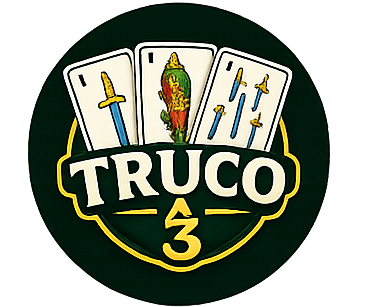
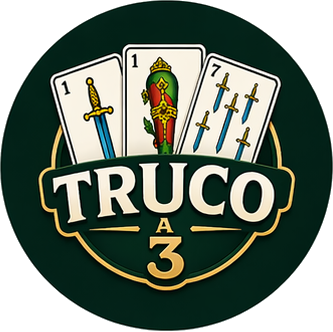
feat: add PWA support with service worker and manifest configuration

diff --git a/src/app/app.config.ts b/src/app/app.config.ts
@@ -1,5 +1,6 @@
 import type { ApplicationConfig } from '@angular/core';
-import { provideBrowserGlobalErrorListeners } from '@angular/core';
+import { isDevMode, provideBrowserGlobalErrorListeners } from '@angular/core';
+import { provideServiceWorker } from '@angular/service-worker';
 import {
   PreloadAllModules,
   provideRouter,
@@ -28,5 +29,13 @@ export const appConfig: ApplicationConfig = {
     provideAnimationsAsync(),
     provideStore(),
     provideEffects(),
+    // PWA: el service worker (ngsw) habilita el prompt de instalación del navegador
+    // y cachea los assets. Sólo en producción; en dev no existe ngsw-worker.js.
+    // `registerWhenStable`: espera a que la app esté estable para no competir con
+    // el boot (WS/STOMP incluido); a los 30 s registra igual.
+    provideServiceWorker('ngsw-worker.js', {
+      enabled: !isDevMode(),
+      registrationStrategy: 'registerWhenStable:30000',
+    }),
   ],
 };

diff --git a/src/index.html b/src/index.html
@@ -44,6 +44,15 @@
     <meta name="twitter:image" content="https://ezevillo.github.io/fe-truco-to-three/logo2.png" />
 
     <link rel="icon" type="image/png" href="icon.png" />
+
+    <!-- PWA: manifest + theme color habilitan el prompt de instalación del navegador -->
+    <link rel="manifest" href="manifest.webmanifest" />
+    <meta name="theme-color" content="#062618" />
+    <!-- iOS no lee los íconos del manifest: necesita apple-touch-icon -->
+    <link rel="apple-touch-icon" href="icons/icon-180.png" />
+    <meta name="apple-mobile-web-app-capable" content="yes" />
+    <meta name="apple-mobile-web-app-status-bar-style" content="black-translucent" />
+    <meta name="apple-mobile-web-app-title" content="Truco a 3" />
     <link rel="preconnect" href="https://fonts.googleapis.com" />
     <link rel="preconnect" href="https://fonts.gstatic.com" crossorigin />
     <link